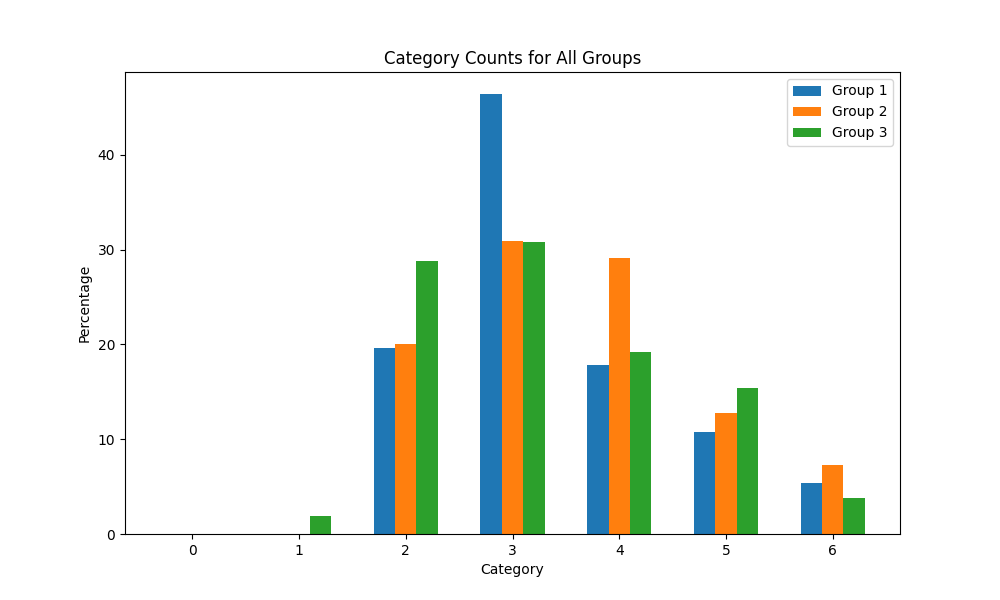
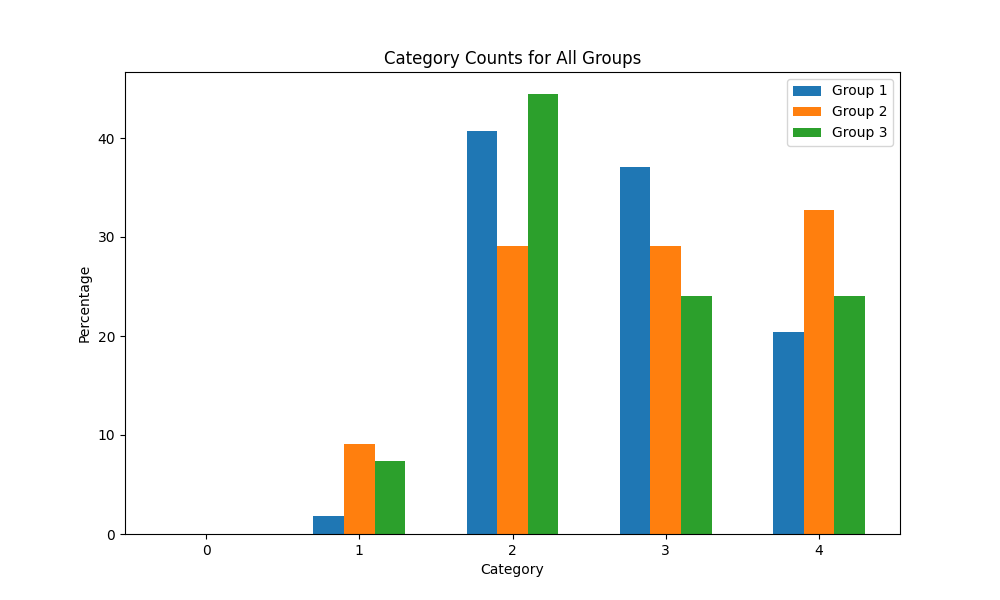
changing act 9 to 5 groups

diff --git a/Activity-9/main.py b/Activity-9/main.py
@@ -220,25 +220,20 @@ for _ in range(number_of_iterations):
 
 print(k_values, lowest_variance, len(clusters[0]), len(clusters[1]), len(clusters[2]))
 
-
 def categorize_value_z_score_col(value, col_average, col_std_dev):
     z_score = (value - col_average) / col_std_dev
-    if z_score < -2.5:
+    if z_score < -2:
         return 0, z_score
-    elif -2.5 <= z_score < -1.5:
+    elif -2 <= z_score < -1:
         return 1, z_score
-    elif -1.5 <= z_score < -0.5:
+    elif -1 <= z_score < 0:
         return 2, z_score
-    elif -0.5 <= z_score < 0.5:
+    elif 0 <= z_score < 1:
         return 3, z_score
-    elif 0.5 <= z_score < 1.5:
-        return 4, z_score
-    elif 1.5 <= z_score < 2.5:
-        return 5, z_score
     else:
-        return 6, z_score
+        return 4, z_score
 
-category_counts_col = {i: [0] * len(best_k_groups) for i in range(7)}
+category_counts_col = {i: [0] * len(best_k_groups) for i in range(5)}
 
 for i, group in enumerate(best_k_groups):
     data_headers = [extracted_headers[index] for index in group]
@@ -249,19 +244,18 @@ for i, group in enumerate(best_k_groups):
     for value in data_group:
         category, _ = categorize_value_z_score_col(value, col_average, col_std_dev)
         category_counts_col[category][i] += 1
-    
 
 # Plotting the bar graph for all groups
 plt.figure(figsize=(10, 6))
 bar_width = 0.2
 for i in range(len(best_k_groups)):
-    counts = [(category_counts_col[cat][i] / len(best_k_groups[i]) * 100) for cat in range(7)]
-    plt.bar([j + bar_width * i for j in range(0, 7)], counts, width=bar_width, label=f'Group {i+1}')
+    counts = [(category_counts_col[cat][i] / len(best_k_groups[i]) * 100) for cat in range(5)]
+    plt.bar([j + bar_width * i for j in range(0, 5)], counts, width=bar_width, label=f'Group {i+1}')
 
 plt.xlabel('Category')
 plt.ylabel('Percentage')
 plt.title('Category Counts for All Groups')
-plt.xticks([i + bar_width for i in range(0, 7)], [str(i) for i in range(7)])
+plt.xticks([i + bar_width for i in range(0, 5)], [str(i) for i in range(5)])
 plt.legend()
 # plt.show()
 plt.savefig("category_counts.png")
